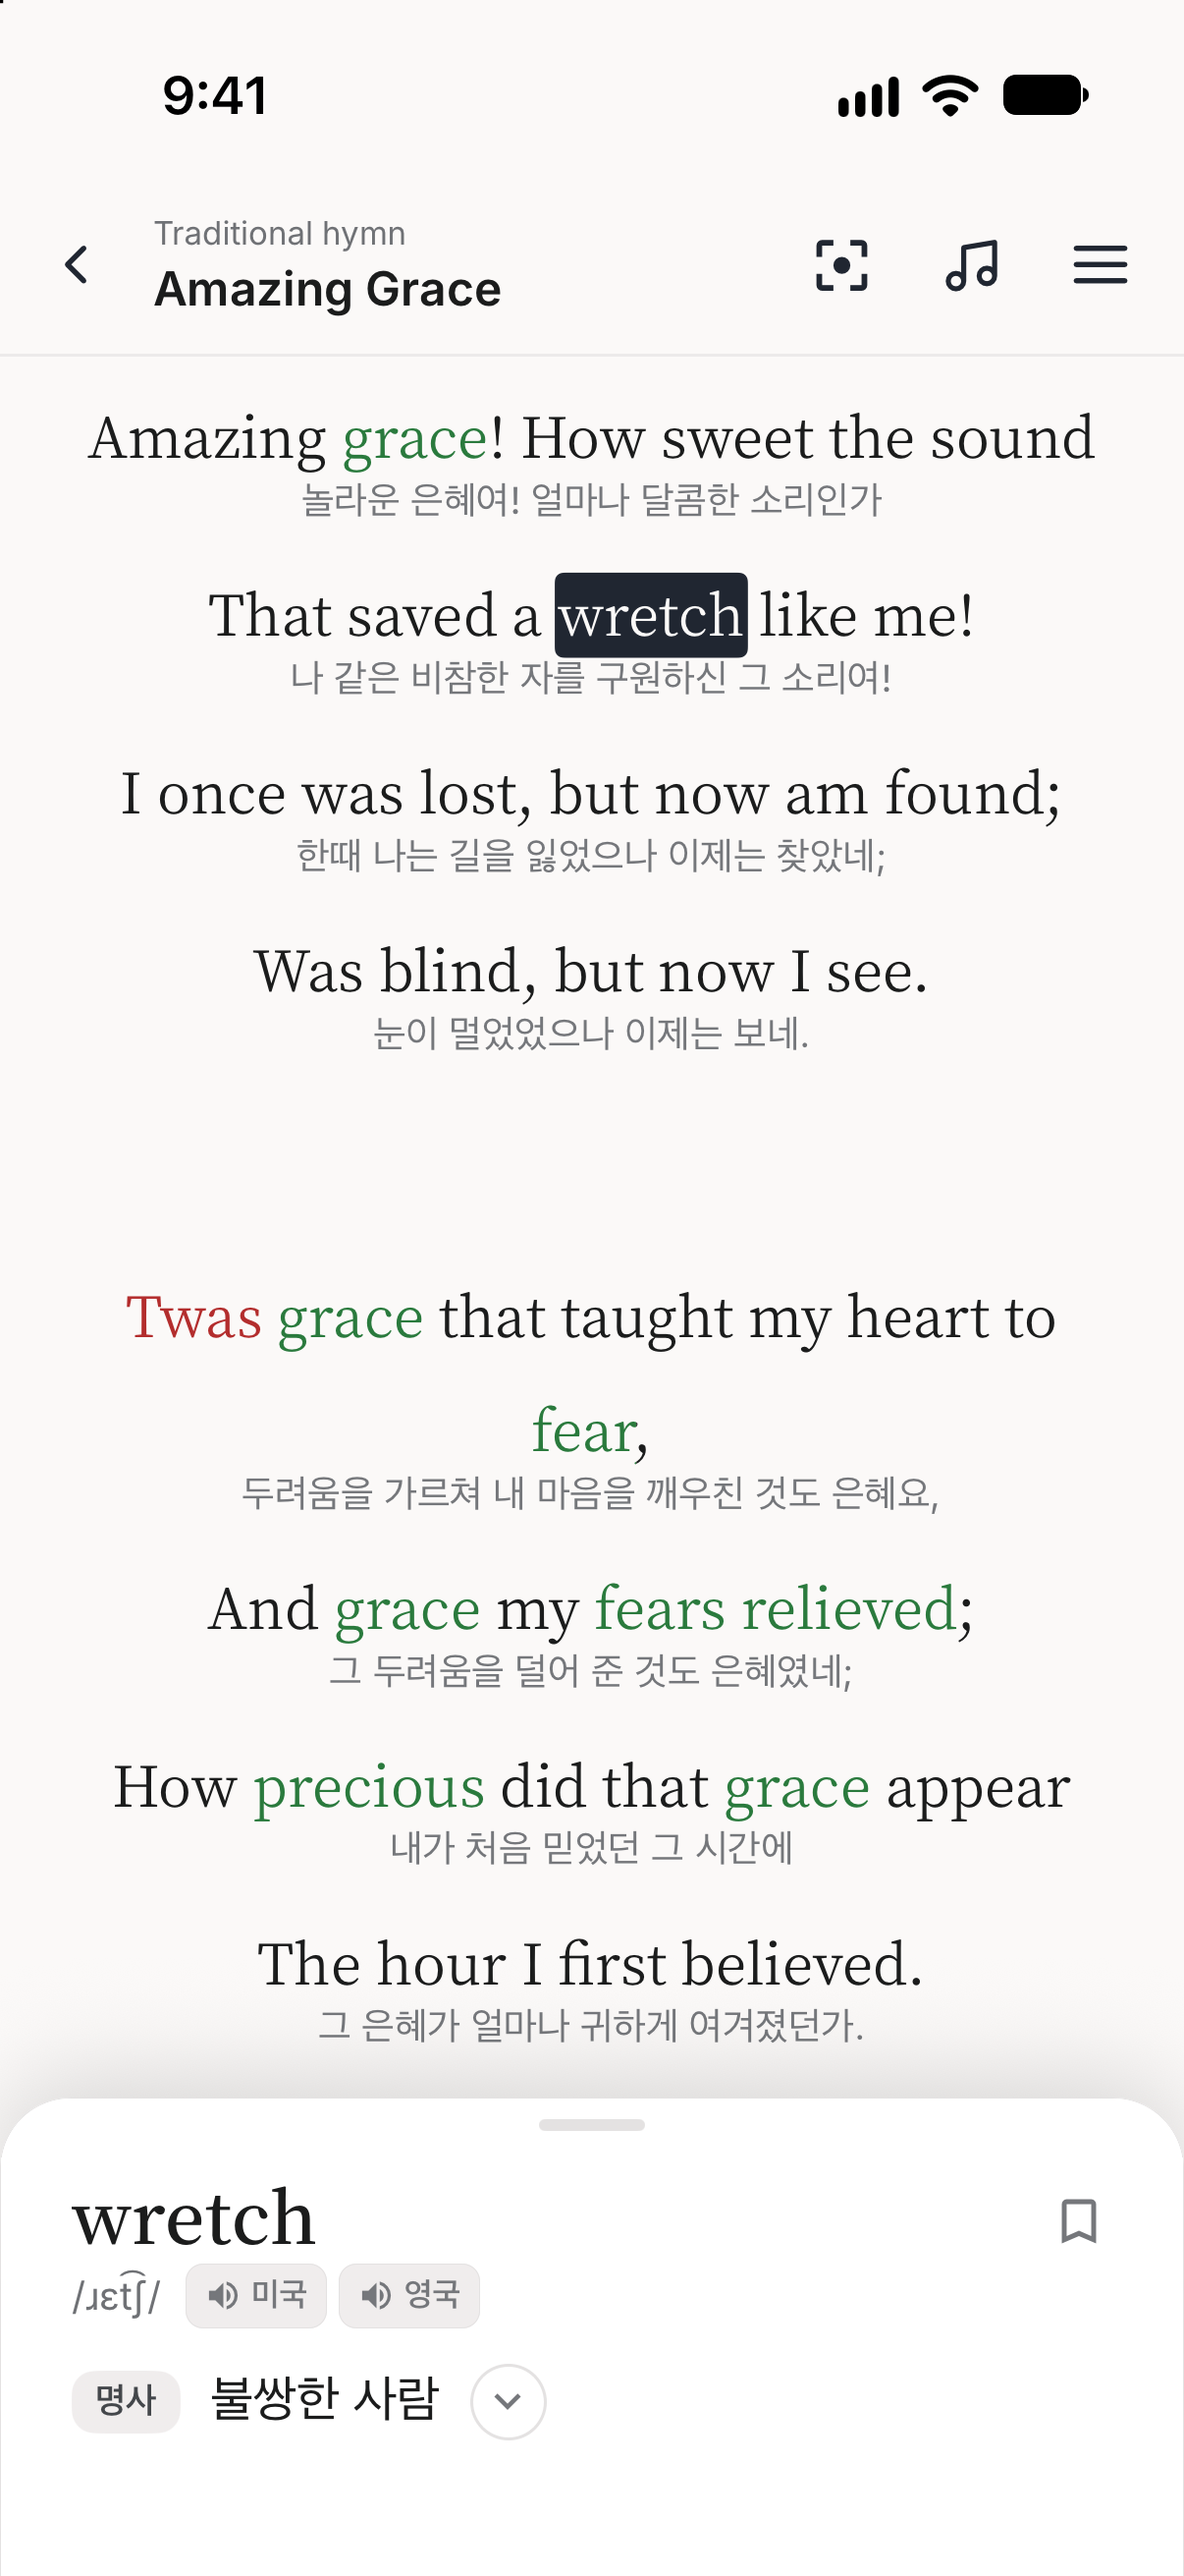
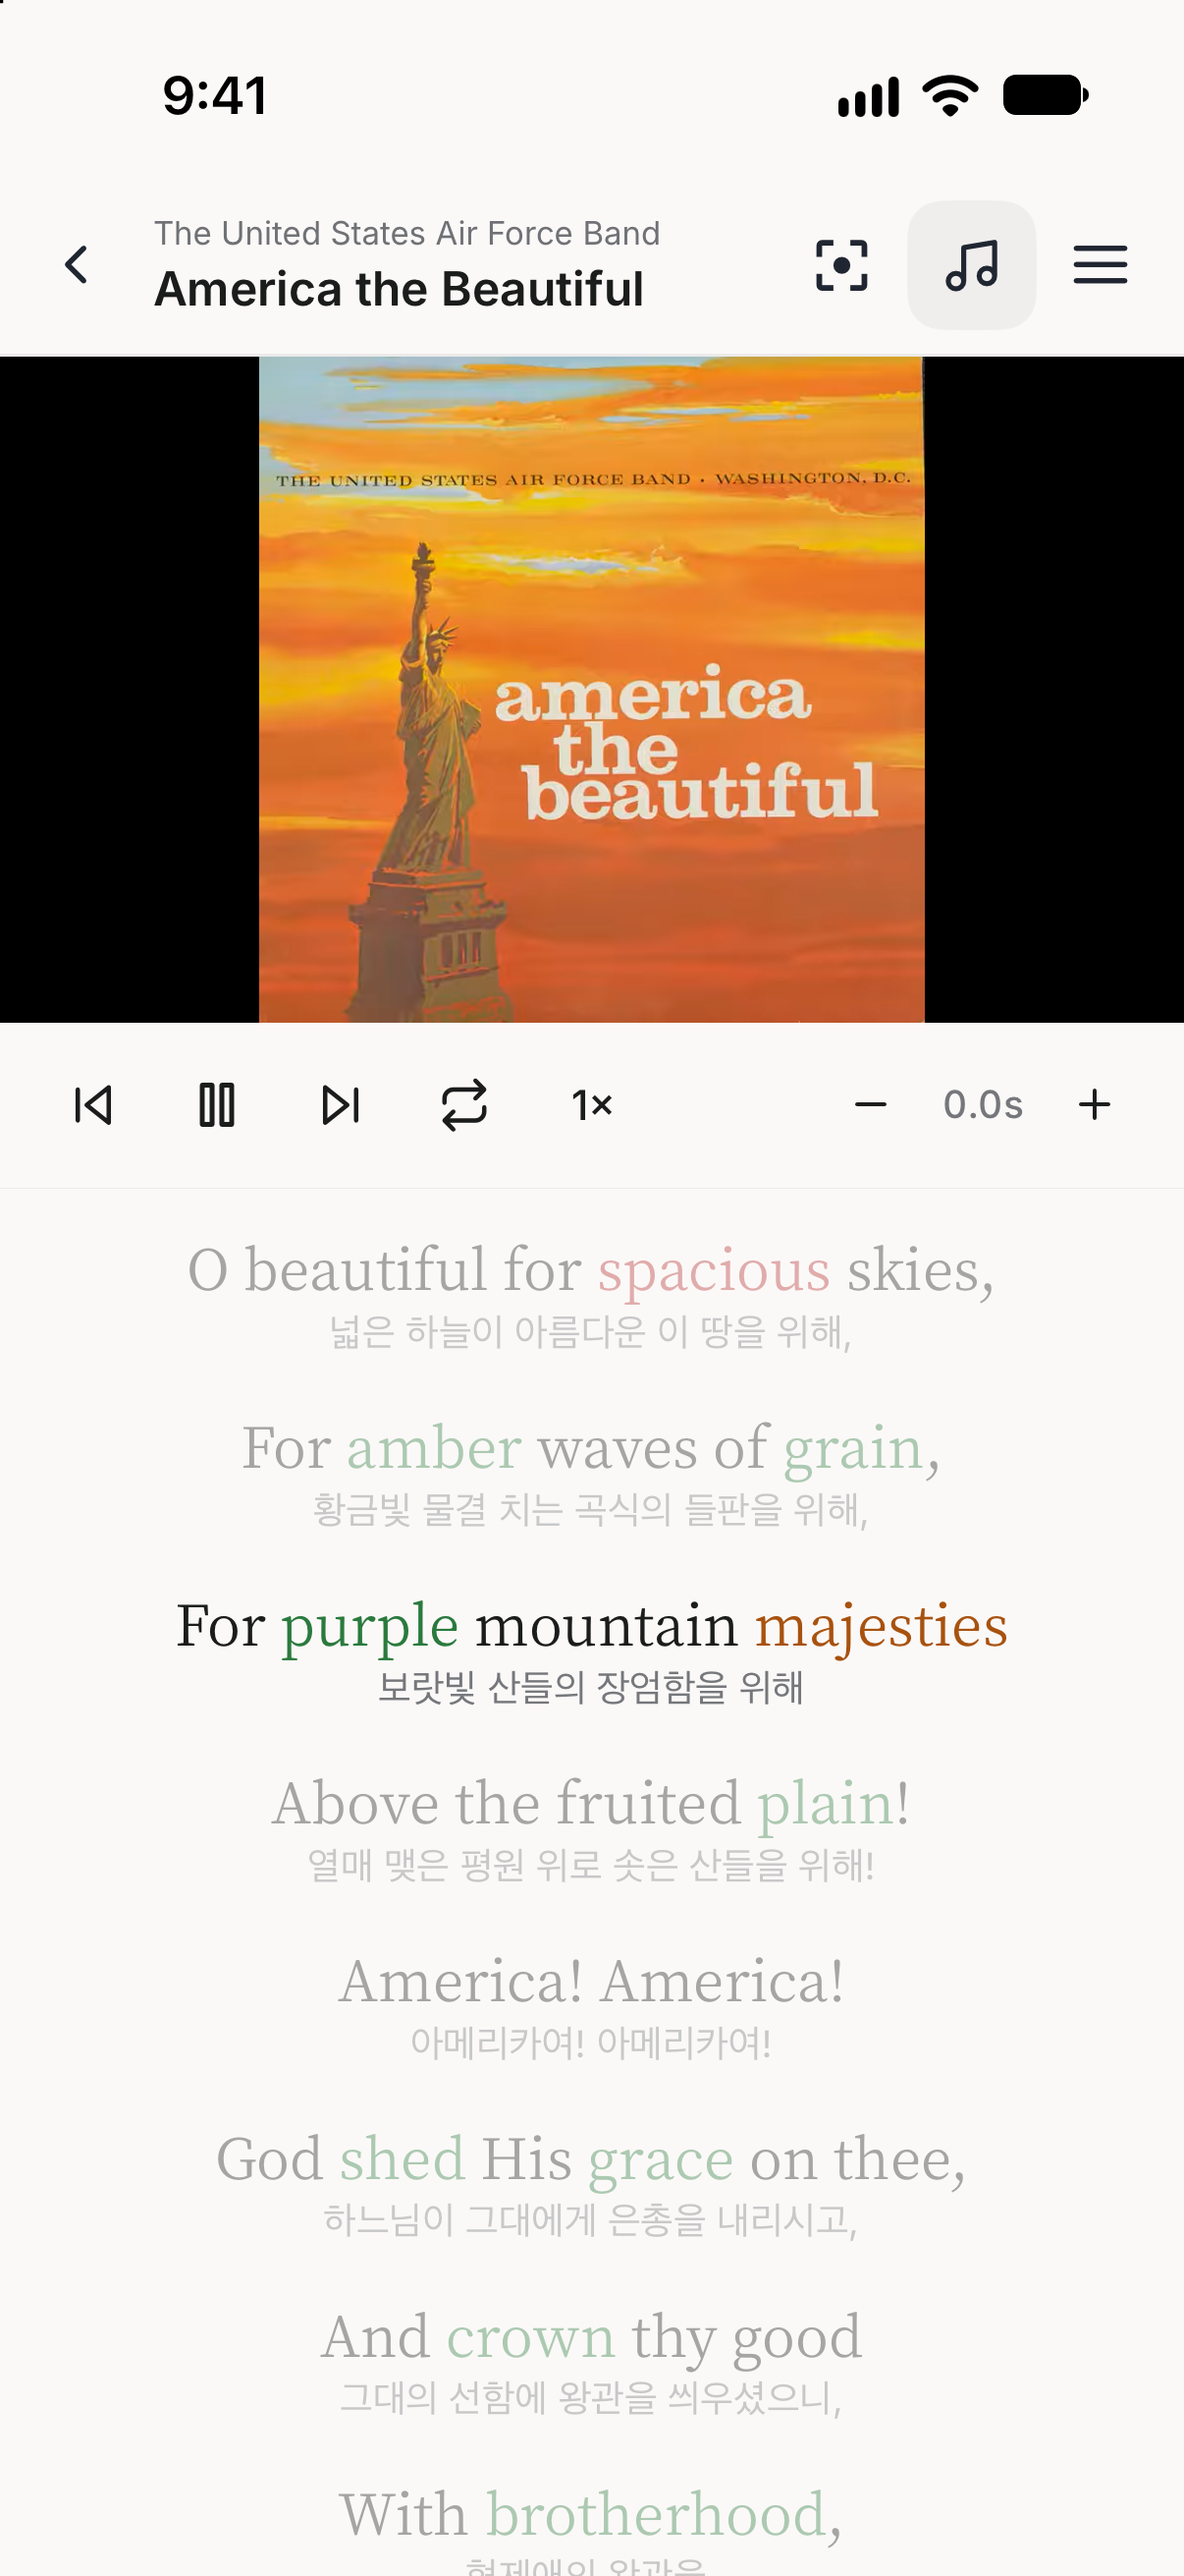
chore(store): songs image plays America the Beautiful from the Air Force Band's own release
Public-domain words and a US government recording, so no label artwork or
performer appears; the sung line is lit.

diff --git a/marketing/store-2026-11/README.md b/marketing/store-2026-11/README.md
@@ -3,6 +3,6 @@
 `python3 make.py && sh render.sh` writes every image to `out/`.
 
 - `shots/` are iOS simulator screenshots (iPhone 17, Korean interface, learning English, level B1, status bar set to 9:41 with `xcrun simctl status_bar`).
-- The song is "Amazing Grace" with the public-domain 1779 words typed in by hand, so no copyrighted lyrics or third-party video appear.
+- The song is "America the Beautiful" (1895 words, public domain) played from The United States Air Force Band's own release (a US government work), so no label artwork or performer appears.
 - Style matches the live 01–06 screenshots: slate background, Fraunces headline, Inter body.
 - Where each image goes: docs/store-listing-songs-update.md.
